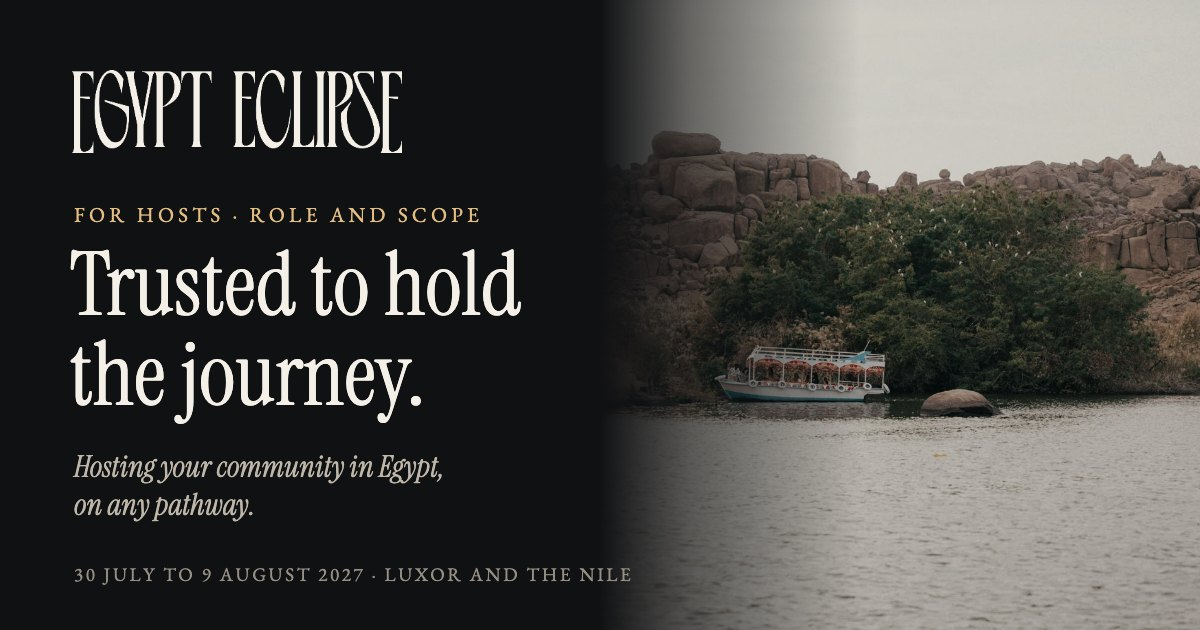
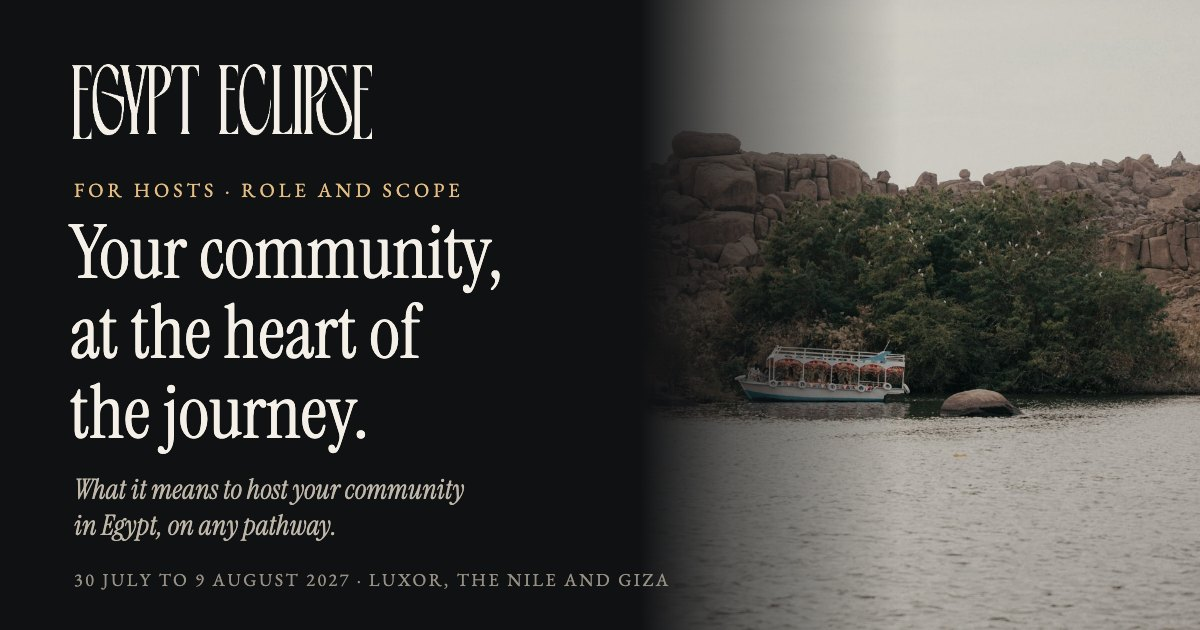
Host page: new preview image and egypteclipse.com footer

diff --git a/host/index.html b/host/index.html
@@ -77,7 +77,7 @@ footer p{font-family:"Tenor Sans",Helvetica,Arial,sans-serif;font-size:11px;lett
 <aside class="callout"><p class="lab gold">What Hosts receive</p><p>In return, Hosts receive the standard Host rate of 50% off their pathway, with five guests booked on that pathway covering the rest so the experience is fully comped, plus recognition on the pathway page, and the first rights to create described above. The full terms sit in each Host&#39;s agreement.</p><p class="note">The Path of Totality aboard the Jaz Celebrity has its own Host terms.</p></aside>
 
 </main>
-<footer><img src="../logo.png" alt="Egypt Eclipse"><p>30 July to 9 August 2027 · Luxor, the Nile and Giza</p><p style="margin-top:10px;color:#E4BD82">egypt-eclipse.com</p></footer>
+<footer><img src="../logo.png" alt="Egypt Eclipse"><p>30 July to 9 August 2027 · Luxor, the Nile and Giza</p><p style="margin-top:10px;color:#E4BD82">egypteclipse.com</p></footer>
 <script>window.MK_SUPABASE = {url:"https://ybmevmwefsvigcesjojo.supabase.co", key:"sb_publishable_jMCxUWH_nqgi0qomakS0Gg_3sEexiQ8"};</script>
 <div id="mk-btn" class="mk-float" hidden><button type="button" id="mk-open">Suggest an edit</button></div>
 <button type="button" id="mk-general" class="mk-fab">Suggest edits <span id="mk-count">0</span></button>
